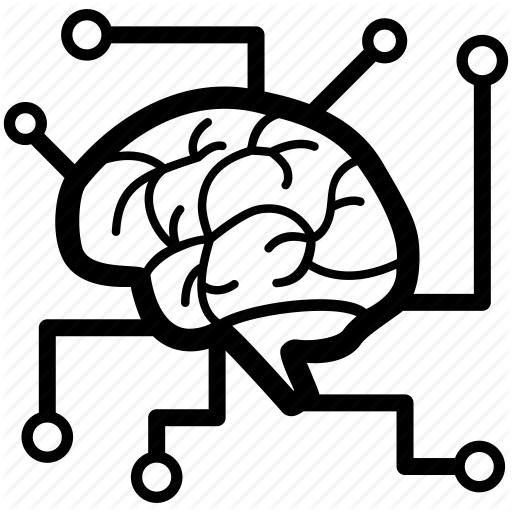
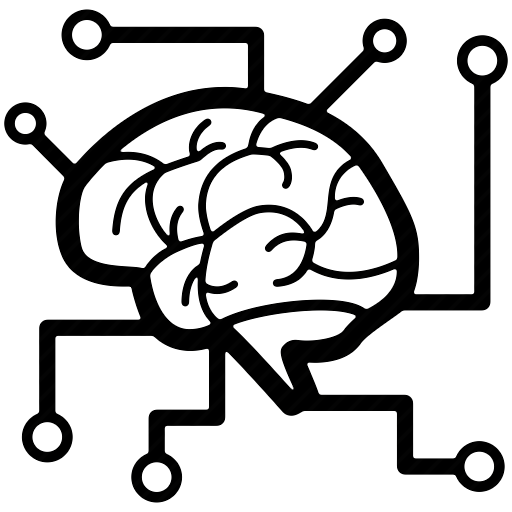
commit 3

diff --git a/pages/etudes&experiences/content.html b/pages/etudes&experiences/content.html
@@ -7,7 +7,7 @@
 		<script src="../../bootstrap/popper/popper.min.js"></script>
 		<link rel='stylesheet' href='../../bootstrap/css/bootstrap.min.css'>
 		<script src='../../bootstrap/js/bootstrap.bundle.min.js'></script>
-		<link rel="icon" href="../../img/iconHeader.png">
+		<link rel="icon" href="../../img/iconHeaderWhBack.png">
 		<link rel='stylesheet' href='../../css/all.css'>
 	</head>
 	<body style="background: url('../../img/etudes&experiences/experiencesBack.jpg') no-repeat center fixed; background-size: cover;">
@@ -55,39 +55,38 @@
 				<div class="rounded shadow p-2" style="background-color: rgba(255,255,255,0.8);">
 					<h1 class="font-weight-light my-4 text-center">Etudes et expériences :</h1>
 					<div class="mx-5 pb-3">
-						Le biais de dissonance cognitive fait partie d’une famille de biais cognitifs visant à confirmer ses dires. Cette famille est celle des Biais de Confirmation et regroupe pas mal de biais cognitifs assez proches :<br>
-						<br>
+						<h3>Les différents paradigmes d’étude :</h3>
+						La théorie de la dissonance cognitive a donné naissance à de nombreux paradigmes (c'est à dire "façon expérimentales de procéder"). On compte parmis les plus célèbres:
 						<ul>
-							<li>Biais de congruence</li>
-							<li>Rationalisation post-achat</li>
-							<li>Perception sélective</li>
-							<li>Biais de l’expérimentateur</li>
-							<li>Validation subjective</li>
-							<li>...</li>
+							<li class="pt-2"><h5>Paradigme de la soumission forcée</h5>
+								Ce paradigme, mis à partir des années 50, cherche à pousser le sujet à avoir un comportement qu’il n’aurait pas normalement eu. L’objectif est de jouer sur la récompense ou la punition attribuée au sujet pour essayer de provoquer, par le biais du comportement, un changement dans son attitude. On remarquera alors que plus la récompense/interdiction sera forte, plus le sujet pourra y retrouver là la raison de son comportement. A l’inverse, lorsque la récompense/punition est faible, il n’a comme option que de déduire que son comportement provient de ses propres croyances, et va ainsi ajuster ces attitudes en fonction de son comportement <br>
+								<div class="pt-2"><b>Des expériences pertinentes qui se basent sur ce paradigme :</b></div>
+								<ul>
+									<li>Brehm et Cohen (1962 : Récompense et dissonance) : on manipule la hauteur des récompenses attribuées au sujet pour émettre un discours contraire à ses convictions.</li>
+									<li>Aronson et Carlsmith (1962 : Interdiction et dissonance) : on manipule le degré d'interdiction d'un comportement</li>
+									<li>Janis et Mann (1965 : Une Dissonance cognitive pour arrêter de fumer) : Les sujets étaient amenés à tenir des propos qui vont à l'encontre de leur comportement, en public. Les résultats montraient que le fait de discourir en public contre un valeur qui est la nôtre, réoriente notre attitude en faveur de la cause défendue publiquement.</li>
+								</ul>
+
+							</li>
+							<li class="pt-2"><h5>Paradigme de la décision</h5>
+								On manipule le degré de liberté de choix effectué par le sujet : lorsqu’un sujet émet un comportement contraire à ses opinions, tout en étant libre,  il ajuste ses attitudes en fonction du comportement. Une contrainte exercée, ou un sentiment de liberté amoindrie, entraîne une déresponsabilisation du comportement, qui est alors expliqué par des causes extérieures à l'individu, lequel n'a plus alors à ajuster ces attitudes, puisqu'il a été "forcé" dans son comportement.<br>
+								<div class="pt-2"><b>Recherche pertinente qui se base sur ce paradigme :</b></div>
+								<div class="row">
+									<div class="col">
+										Brehm (1956 : Liberté de choix et dissonance): les sujets sont amenés à faire un choix entre deux options.La dissonance est d’autant plus forte que les deux alternatives sont toutes deux attrayantes et disposent de caractéristiques similaires. La réduction de la dissonance se traduira par une tendance à justifier a posteriori le choix opéré en maximisant ses attraits et en minimisant ceux de l’alternative rejetée. Les participants rechercheront également activement tout ce qui peut leur permettre de justifier leur choix et éviteront soigneusement ce qui pourrait le remettre en question (exposition sélective à l’information).
+									</div>
+									<figure class="col-3">
+										<a href="../../img/etudes&experiences/comicstrip.png" title="comic"><img class="figure-img img-fluid rounded"src="../../img/etudes&experiences/comicstrip.png" alt="comicStrip"></a>
+										<figcaption>Festinger: "My garden is smaller than my neighbour's, but my grass is greener!"</figcaption>
+									</figure>
+								</div>
+							</li>
+							<li class="pt-2"><h5>Paradigme de l’hypocrisie</h5>
+								Pour ce paradigme (Aronson, Fried & Stone. 1991), le sujet observé défend une position en rapport avec ses valeurs ou opinions (comportement attrayant qui repose généralement sur des actions nobles), puis après un travail de remémoration, il doit admettre que par le passé, il ne s’est pas toujours comporté en adéquation avec ces valeurs/opinions (évocation de comportements de transgression). Le constat fait alors apparaître la position tenue par le sujet comme « hypocrite ». La dissonance pousse souvent le sujet à arborer comportement nouveau qui sera accord avec la position qu’il défendait précédemment.<br>
+								Ce paradigme est souvent employé par des campagnes de sensibilisation et de préventions. Par exemple, pour une recherche, après que les participants aient signés une pétition en faveur de la préservation de l’eau, il était possible d’observer une réduction du temps que passaient les sujet sous la douche à la piscine.
+
+							</li>
 						</ul>
-						Ces différents biais peuvent se scinder en deux types de biais de confirmation. D’un côté, ceux où l’information vient de l’extérieur et de l’autre où le sujet se obtient l’information de lui-même. Ainsi, nous obtenons ces deux nouvelles familles :<br>
-						<br>
-						<ul>
-							<li>Biais de congruence</li>
-							<li>Rationalisation post-achat</li>
-							<li>Biais de l’expérimentateur</li>
-						</ul>
-						Validation subjective<br>
-						Perception sélective<br>
-						<br>
-						Essayons de maintenant de voir un aperçu de chacun de ses différents biais et essayons de voir ce qui les rassemble sous cette même famille.<br>
-						<br>
-						Tout d’abord, le <b>biais de congruence</b>. Celui-ci est assez simple, il vise à  toujours essayer de valider notre hypothèse de départ plutôt que de la démonter. Ce biais est extrêmement répandu et est devenu une méthode de réflexion commune pour la simple raison qu’il est plus gratifiant de démontrer que l’hypothèse est validée.<br>
-						<br>
-						Restons dans notre lancée scientifique pour aborder le <b>biais de l’expérimentateur</b>. Ce biais vise les personnes cherchant comme son nom l’indique à expérimenter. La personne pense lors de son expérimentation que tout se passe dans le cadre normal du test mais va, au travers d’opérations conscientes ou non diriger l’expérience pour arriver au résultat attendu.<br>
-						<br>
-						Maintenant, nous allons rentrer dans les biais plus généraux et plus visibles dans la vie de tous les jours.<br>
-						<br>
-						<b>La rationalisation post-achat</b> est un biais de confirmation plus répandu encore, notamment dans notre société consumériste. En effet, beaucoup d’entre nous ont déjà acheté un objet sous l’effet d’une envie soudaine. Mais également combien ont regretté ce choix. Ici, le biais de rationalisation se base sur le caractère “rationalisant” (réf Elliot Aronson) de l’être humain qui va associer le sentimental pour justifier son action.<br>
-						<br>
-						Le biais de <b>validation subjective</b> est un biais cognitif où le sujet s’approprie des descriptions vagues. Ce biais est notamment le fond de commerce des voyants et autres.<br>
-						Le biais de Perception sélective est une tendance du sujet à ne s’intéresser qu’aux sujets qui le concerne, occultant le reste.<br>
-						<br>
 					</div>
 				</div>
 			</div>

diff --git a/pages/bibliographie/content.html b/pages/bibliographie/content.html
@@ -1,0 +1,77 @@
+<!DOCTYPE html>
+<html lang="fr">
+	<head>
+		<title>Bibliographie</title>
+		<meta charset='utf-8'>
+		<script src="../../bootstrap/jquery/jquery-3.3.1.min.js"></script>
+		<script src="../../bootstrap/popper/popper.min.js"></script>
+		<link rel='stylesheet' href='../../bootstrap/css/bootstrap.min.css'>
+		<script src='../../bootstrap/js/bootstrap.bundle.min.js'></script>
+		<link rel="icon" href="../../img/iconHeaderWhBack.png">
+		<link rel='stylesheet' href='../../css/all.css'>
+	</head>
+	<body style="background: url('../../img/bibliographie/bibliographieBack.jpg') no-repeat center fixed; background-size: cover;">
+		<div class="container-fluid p-0">
+			<nav class="navbar navbar-expand-lg navbar-light bg-light p-1 " style="border-bottom: 5px solid black ">
+				<button class="navbar-toggler" type="button" data-toggle="collapse" data-target="#navbarCollapse" aria-controls="navbarCollapse" aria-expanded="false" aria-label="Toggle navigation">
+				<span class="navbar-toggler-icon"></span>
+				</button>
+				<div class="collapse navbar-collapse" id="navbarCollapse">
+					<div class="container">
+						<ul class="navbar-nav mr-auto align-items-center">
+							<li class="nav-item">
+								<a class="navbar-brand" href="../../index.html"><img src="../../img/iconHeader.png" width="50" alt="logo_cog"></a>
+							</li>
+							<li class="nav-item">
+								<a class="nav-link text-center text-center" href="../../index.html">Accueil</a>
+							</li>
+							<li class="nav-item">
+								<a class="nav-link text-center" href="../../pages/definitions/content.html">Définitions</a>
+							</li>
+							<li class="nav-item">
+								<a class="nav-link text-center" href="../../pages/histoire/content.html">Histoire</a>
+							</li>
+							<li class="nav-item">
+								<a class="nav-link text-center" href="../../pages/analyse/content.html">Analyse du phénomène</a>
+							</li>
+							<li class="nav-item">
+								<a class="nav-link text-center" href="../../pages/etudes&experiences/content.html">Etudes et expériences</a>
+							</li>
+							<li class="nav-item">
+								<a class="nav-link text-center" href="../../pages/solutions/content.html">Solutions</a>
+							</li>
+							<li class="nav-item">
+								<a class="nav-link text-center" href="../../pages/comparaisons/content.html">Comparaisons</a>
+							</li>
+							<li class="nav-item active">
+								<a class="nav-link text-center" href="../../pages/bibliographie/content.html">Bibliographie</a>
+							</li>
+						</ul>
+					</div>
+				</div>
+			</nav>
+			
+			<div class="container mt-4 mb-2">
+				<div class="rounded shadow p-2" style="background-color: rgba(255,255,255,0.8);">
+					<h1 class="font-weight-light my-4 text-center">Bibliographie</h1>
+					<div class="mx-5 pb-3">
+						<ul>
+							<li><a href="https://www.psychologie-sociale.com/index.php/fr/theories/influence/6-la-theorie-de-la-dissonance-cognitive" title="">https://www.psychologie-sociale.com/index.php/fr/theories/influence/6-la-theorie-de-la-dissonance-cognitive</a></li>
+							<li><a href="http://www.psychoweb.fr/articles/psychologie-sociale/143-theorie-de-la-dissonance-cognitive-paradigmes-de-rech.html" title="">http://www.psychoweb.fr/articles/psychologie-sociale/143-theorie-de-la-dissonance-cognitive-paradigmes-de-rech.html</a></li>
+							<li>Une théorie de dissonance cognitive, 1957 FESTINGER</li>
+							<li>Vaidis D. et Halimi-Falkowicz S. (2007). La théorie de la dissonance cognitive : une théorie âgée d’un demi-siècle. Revue électronique de Psychologie Sociale.</li>
+							<li>Beauvois, J.-L., & Joule, R.-V. (1981). Soumission et idéologie. Psychosociologie de la rationalisation.</li>
+							<li>Harmon-Jones, E., & Mills, J. (1999). Cognitive Dissonance: Progress on a pivotal theory in social psychology.</li>
+							<li><a href="https://www.psychologie-sociale.com/index.php/fr/theories/influence/6-la-theorie-de-la-dissonance-cognitive" title="">https://www.psychologie-sociale.com/index.php/fr/theories/influence/6-la-theorie-de-la-dissonance-cognitive</a></li>							
+							<li><a href="https://www.amazon.fr/When-Prophecy-Fails-Professor-Festinger/dp/1891396986" title="">https://www.amazon.fr/When-Prophecy-Fails-Professor-Festinger/dp/1891396986</a></li>
+							<li><a href="https://www.amazon.fr/Theory-Cognitive-Dissonance-Leon-Festinger/dp/0804709114" title="">https://www.amazon.fr/Theory-Cognitive-Dissonance-Leon-Festinger/dp/0804709114</a></li>
+							<li><a href="https://www.scienceshumaines.com/l-echec-d-une-prophetie_fr_12965.html" title="">https://www.scienceshumaines.com/l-echec-d-une-prophetie_fr_12965.html</a></li>
+							<li><a href="https://fr.wikipedia.org/wiki/Leon_Festinger" title="">https://fr.wikipedia.org/wiki/Leon_Festinger</a></li>
+							<li><a href="https://www.universalis.fr/encyclopedie/leon-festinger/" title="">https://www.universalis.fr/encyclopedie/leon-festinger/</a></li>
+							<li><a href="http://leffet.placebo.free.fr/dissonance.htm" title="">http://leffet.placebo.free.fr/dissonance.htm</a></li>
+					</div>
+				</div>
+			</div>
+		</div>
+	</body>
+</html>

diff --git a/index.html b/index.html
@@ -7,7 +7,7 @@
 		<script src="./bootstrap/popper/popper.min.js"></script>
 		<link rel='stylesheet' href='./bootstrap/css/bootstrap.min.css'>
 		<script src='./bootstrap/js/bootstrap.bundle.min.js'></script>
-		<link rel="icon" href="./img/iconHeader.png">
+		<link rel="icon" href="./img/iconHeaderWhBack.png">
 		<link rel='stylesheet' href='./css/all.css'>
 	</head>
 	<body>
@@ -106,10 +106,17 @@
 					<span class="sr-only">Suivant</span>
 				</a>
 			</div>
-			<div class="container">
-				<div class="row my-4">
-					<iframe class="mx-auto" width="711 "height="400" src="https://www.youtube.com/embed/52TNSjeUzIg" frameborder="0" allow="accelerometer; autoplay; encrypted-media; gyroscope; picture-in-picture" allowfullscreen></iframe>
-				</div>
+			<div class="jumbotron w-75 mx-auto mt-4 py-4">
+				<h1 class="display-5">Une présentation de la dissonance cognitive</h1>
+				<p class="lead"> un travail réalisé par :</p>
+				<hr class="m-y-md">
+				<ul>
+					<li>SOLEIMAN Agathe - <a href="mailto:agathe05012017@gmail.com" title="">agathe05012017@gmail.com</a></li>
+					<li>GUETTA Nathan - <a href="mailto:dragonslayer.9274@gmail.com" title="">dragonslayer.9274@gmail.com</a></li>
+					<li>FERNANDO Rudy - <a href="mailto:rudy.sobral@gmail.com" title="">rudy.sobral@gmail.com</a></li>
+					<li>MACE Loïc - <a href="mailto:loicmace95@gmail.com" title="">loicmace95@gmail.com</a></li>
+					<li>FROMENT Sacha - <a href="mailto:sacha.froment@outlook.fr" title="">sacha.froment@outlook.fr</a></li>
+				</ul>
 			</div>
 		</div>
 	</body>

diff --git a/pages/comparaisons/content.html b/pages/comparaisons/content.html
@@ -7,7 +7,7 @@
 		<script src="../../bootstrap/popper/popper.min.js"></script>
 		<link rel='stylesheet' href='../../bootstrap/css/bootstrap.min.css'>
 		<script src='../../bootstrap/js/bootstrap.bundle.min.js'></script>
-		<link rel="icon" href="../../img/iconHeader.png">
+		<link rel="icon" href="../../img/iconHeaderWhBack.png">
 		<link rel='stylesheet' href='../../css/all.css'>
 	</head>
 	<body style="background: url('../../img/comparaisons/comparaisonsBack.jpg') no-repeat center fixed; background-size: cover;">

diff --git a/pages/definitions/content.html b/pages/definitions/content.html
@@ -7,7 +7,7 @@
 		<script src="../../bootstrap/popper/popper.min.js"></script>
 		<link rel='stylesheet' href='../../bootstrap/css/bootstrap.min.css'>
 		<script src='../../bootstrap/js/bootstrap.bundle.min.js'></script>
-		<link rel="icon" href="../../img/iconHeader.png">
+		<link rel="icon" href="../../img/iconHeaderWhBack.png">
 		<link rel='stylesheet' href='../../css/all.css'>
 	</head>
 	<body style="background: url('../../img/definitions/definitionsBack.jpg') no-repeat center fixed; background-size: cover;">

diff --git a/pages/solutions/content.html b/pages/solutions/content.html
@@ -7,7 +7,7 @@
 		<script src="../../bootstrap/popper/popper.min.js"></script>
 		<link rel='stylesheet' href='../../bootstrap/css/bootstrap.min.css'>
 		<script src='../../bootstrap/js/bootstrap.bundle.min.js'></script>
-		<link rel="icon" href="../../img/iconHeader.png">
+		<link rel="icon" href="../../img/iconHeaderWhBack.png">
 		<link rel='stylesheet' href='../../css/all.css'>
 	</head>
 	<body style="background: url('../../img/solutions/solutionsBack.jpg') no-repeat center fixed; background-size: cover;">

diff --git a/pages/histoire/content.html b/pages/histoire/content.html
@@ -7,7 +7,7 @@
 		<script src="../../bootstrap/popper/popper.min.js"></script>
 		<link rel='stylesheet' href='../../bootstrap/css/bootstrap.min.css'>
 		<script src='../../bootstrap/js/bootstrap.bundle.min.js'></script>
-		<link rel="icon" href="../../img/iconHeader.png">
+		<link rel="icon" href="../../img/iconHeaderWhBack.png">
 		<link rel='stylesheet' href='../../css/all.css'>
 	</head>
 	<body style="background: url('../../img/histoire/histoireBack.jpg') no-repeat center fixed; background-size: cover;">

diff --git a/pages/analyse/content.html b/pages/analyse/content.html
@@ -7,7 +7,7 @@
 		<script src="../../bootstrap/popper/popper.min.js"></script>
 		<link rel='stylesheet' href='../../bootstrap/css/bootstrap.min.css'>
 		<script src='../../bootstrap/js/bootstrap.bundle.min.js'></script>
-		<link rel="icon" href="../../img/iconHeader.png">
+		<link rel="icon" href="../../img/iconHeaderWhBack.png">
 		<link rel='stylesheet' href='../../css/all.css'>
 	</head>
 	<body style="background: url('../../img/analyse/analyseBack.jpg') no-repeat center fixed; background-size: cover;">

diff --git a/css/all.css b/css/all.css
@@ -2,7 +2,7 @@
 
 #c1 .carousel-item{
 	overflow: hidden;
-	height: 640px;
+	height: 500px;
 }
 
 .text-shadow{
